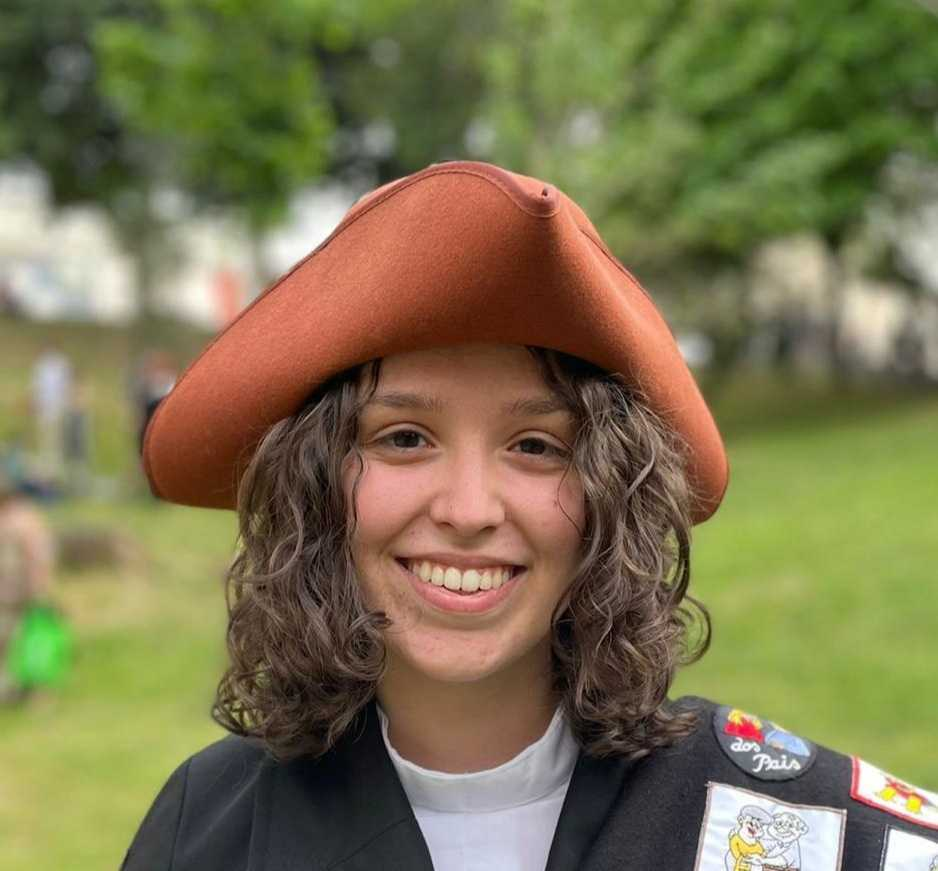
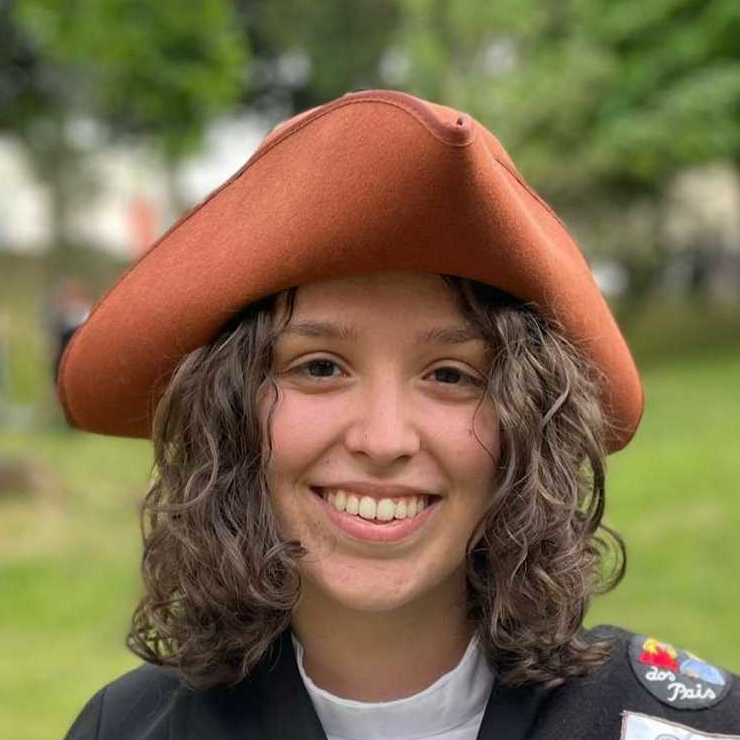
Fix images (#34)

diff --git a/pages/team.js b/pages/team.js
@@ -1,5 +1,4 @@
 import Head from "next/head";
-import Image from "next/image";
 import Navbar from "/components/Navbar";
 
 import team from "/data/team.json";
@@ -23,10 +22,10 @@ export default function Team() {
             </p>
           </div>
 
-          <div className="px-10 grid grid-cols-2 md:grid-cols-3 xl:grid-cols-6 2xl:grid-cols-7 gap-2">
+          <div className="m-auto px-10 grid grid-cols-1 sm:grid-cols-2 md:grid-cols-3 xl:grid-cols-6 2xl:grid-cols-7 gap-2">
             {team.map((member) => (
               <div key={member}>
-                <div className="space-y-4 group relative rounded-lg border border-gray-300 bg-gray1 border-gray2 shadow-sm overflow-hidden hover:border-purple">
+                <div className="space-y-4 group relative rounded-lg border border-gray-300 bg-gray1 border-gray2 shadow-sm overflow-hidden hover:border-purple  w-[220px] h-[220px]">
                   <div className="aspect-w-3 aspect-h-2">
                     {/* eslint-disable @next/next/no-img-element */}
                     <img
@@ -35,12 +34,16 @@ export default function Team() {
                       alt={member.organization}
                     />
                     <div className="absolute inset-0 z-40 bg-gradient-to-b from-transparent opacity-40 transition duration-200 ease-in group-hover:translate-y-20 via-purple to-purple group-hover:rounded-t-[50px]" />
-                    <Image
-                      src={`/images/team/${member.photo}`}
-                      alt={member.name}
-                      width={500}
-                      height={500}
-                    />
+                    <div className="relative overflow-hidden h-[220px]">
+                      {/* eslint-disable @next/next/no-img-element */}
+                      <img
+                        src={`/images/team/${member.photo}`}
+                        alt={member.name}
+                        className="relative w-[220px] overflow-y-hidden rounded-lg"
+                        height="220"
+                      />
+                    </div>
+
                     <p className="hidden absolute inset-x-0 bottom-4 z-40 text-sm font-medium text-center text-white sm:bottom-4 sm:text-lg sm:font-bold md:text-xl group-hover:block">
                       {member.name}
                     </p>

diff --git a/pages/speakers.js b/pages/speakers.js
@@ -1,6 +1,5 @@
 import Head from "next/head";
 import Link from "next/link";
-import Image from "next/image";
 import Navbar from "/components/Navbar";
 
 import speakers from "/data/speakers.json";
@@ -26,18 +25,20 @@ export default function Speakers() {
             </p>
           </div>
 
-          <div className="px-10 grid grid-cols-1 sm:grid-cols-2 md:grid-cols-3 xl:grid-cols-6 2xl:grid-cols-7 gap-2">
+          <div className="m-auto px-10 grid grid-cols-1 sm:grid-cols-2 md:grid-cols-3 xl:grid-cols-6 2xl:grid-cols-7 gap-2">
             {speakers.map((speaker, i) => (
               <Link href={`/speaker/${i}`} key={speaker}>
-                <div className="space-y-4 cursor-pointer group relative rounded-lg border border-gray-300 bg-gray1 border-gray2 shadow-sm hover:border-purple">
+                <div className="space-y-4 cursor-pointer group relative rounded-lg border border-gray-300 bg-gray1 border-gray2 shadow-sm hover:border-purple w-[220px]">
                   <div className="aspect-w-3 aspect-h-2">
-                    <Image
-                      className="rounded-md"
-                      src={`/images/speakers/${speaker.photo}`}
-                      alt={speaker.name}
-                      width={500}
-                      height={500}
-                    />
+                    <div className="relative overflow-hidden h-[220px]">
+                      {/* eslint-disable @next/next/no-img-element */}
+                      <img
+                        src={`/images/speakers/${speaker.photo}`}
+                        alt={speaker.name}
+                        className="relative w-[220px] overflow-y-hidden rounded-lg"
+                        height="220"
+                      />
+                    </div>
                   </div>
                   <div className="space-y-2 px-4 pb-8">
                     <div className="text-lg leading-6 font-medium space-y-1">

diff --git a/pages/index.js b/pages/index.js
@@ -25,7 +25,7 @@ function Home() {
             </p>
             <div className="grid grid-cols-2 divide-x divide-white mt-20">
               <p className="text-purple text-lg sm:text-2xl self-center p-4 justify-self-center">
-                October 4 - 10, 2022
+                October 17 - 20, 2022
               </p>
               <p className="text-purple text-lg sm:text-2xl self-center p-4 justify-self-center">
                 Building 7, Gualtar Campus

diff --git a/next.config.js b/next.config.js
@@ -1,7 +1,3 @@
 module.exports = {
   reactStrictMode: true,
-  images: {
-    domains: ["assets.vercel.com"],
-    formats: ["image/avif", "image/webp"],
-  },
 };
